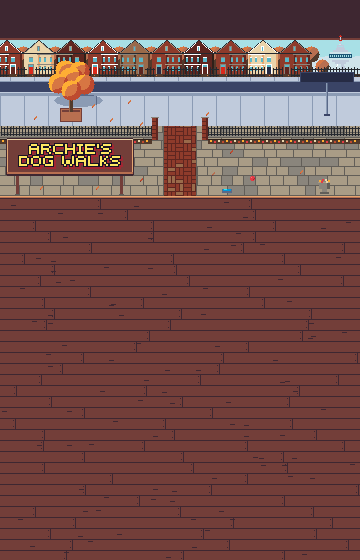
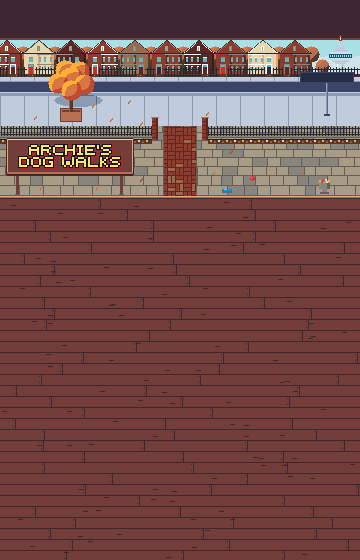
Lower the yard sign's lettering 1 more px, so the inked letters sit centred on the face with their shadow in the bottom margin

Changed region(s): [[0.0306, 0.2429, 0.3361, 0.3036]]

diff --git a/art/tools/screens.py b/art/tools/screens.py
@@ -30,9 +30,9 @@ reads on them.
   the game prints homeText.gateSign on it in font-body, white, centred at
   327,75. The yard sign (SIGN_AT 6,138, a 128x38 board on two posts, left of
   the gate path, where the pack never stands) carries ARCHIE'S over DOG WALKS
-  in the sign letters at 2x, yellow, centred on its face. The yard's right lot
-  is left for ui-pet-shop. The scene holds no strong green, so the Pet shop's
-  board and Start walk stand out.
+  in the sign letters at 2x, yellow, the letters centred on its face. The
+  yard's right lot is left for ui-pet-shop. The scene holds no strong green, so
+  the Pet shop's board and Start walk stand out.
 - screen-stats: evening indoors. A panelled den wall that leaves the top left
   clear for the title (12,12 to 68,22); then, between the title and the close
   button and above the tabs (y 56), a framed dog photo, a low window onto
@@ -540,8 +540,8 @@ def home():
         cv.fill(px - 1, 194, 5, 1, "dstone")
     board(cv, *SIGN_AT, SIGN_W, SIGN_H)
     top, bottom = (fonts.sign(t, 2, "yellow")[0] for t in ("ARCHIE'S", "DOG WALKS"))
-    # the lettering centred down the dark face: 3 rows of face above and below it
-    y = SIGN_AT[1] + 5
+    # the inked letters centred down the dark face, 4 rows above and below, their shadow in the bottom margin
+    y = SIGN_AT[1] + 6
     for line in (top, bottom):
         w, h = extent(line)
         lettering(line, cv, SIGN_AT[0] + (SIGN_W - w) // 2 + 1, y)
